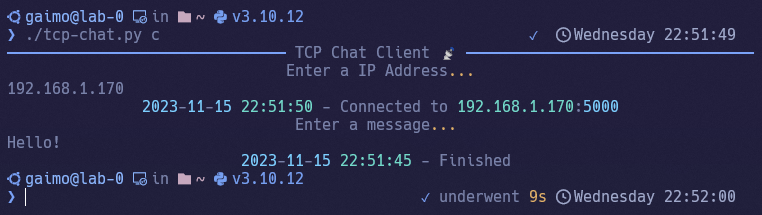
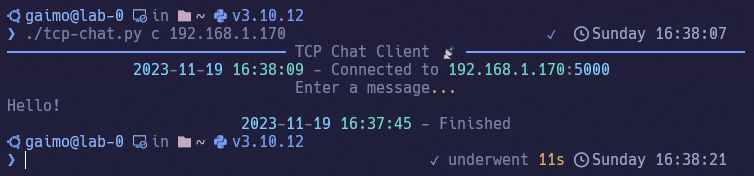
:sparkles: Switch Library: argparse -> typer

diff --git a/tcp-chat.py b/tcp-chat.py
@@ -1,17 +1,23 @@
 #!/usr/bin/env python3
-import argparse
 import datetime
 import socket
 import netifaces
 from rich.console import Console
+from typing import Optional
+import typer
 
-def server(interface):
-    server_ip = netifaces.ifaddresses(interface)[netifaces.AF_INET][0]['addr']
-    server_port = 5000
-    bufsize = 4096
-    format = 'utf-8'
-    date = datetime.datetime.now().strftime('%Y-%m-%d %H:%M:%S')
-    console = Console()
+console = Console()
+server_port = 5000
+bufsize = 4096
+format = 'utf-8'
+date = datetime.datetime.now().strftime('%Y-%m-%d %H:%M:%S')
+
+app = typer.Typer()
+
+@app.command("s")
+def run_server(nic: str = typer.Argument('ens18', help='Network interface (default: ens18)')):
+    """Run TCP Chat Server"""
+    server_ip = netifaces.ifaddresses(nic)[netifaces.AF_INET][0]['addr']
 
     try:
         server_socket = socket.socket(socket.AF_INET, socket.SOCK_STREAM)
@@ -29,7 +35,7 @@ def server(interface):
             client_msg = client_socket.recv(bufsize) # クライアントからのメッセージを受信
             console.print(client_msg.decode(format), justify='center') # クライアントからのメッセージを表示
 
-            server_msg =  f'{date} - Finished'
+            server_msg = f'{date} - Finished'
             client_socket.sendall(server_msg.encode(format)) # クライアントにメッセージを送信
         
             client_socket.close()
@@ -44,20 +50,13 @@ def server(interface):
 
     console.print('Server closed', justify='center')
 
-def client():
-    server_port = 5000
-    bufsize = 4096
-    format = 'utf-8'
-    date = datetime.datetime.now().strftime('%Y-%m-%d %H:%M:%S')
-    console = Console()
-
+@app.command("c")
+def run_client(server_ip: str = typer.Argument(..., help='Server IP address')):
+    """Run TCP Chat Client"""
     client_socket = None
 
     try:
         console.rule('TCP Chat Client 📡', style='blue')
-
-        console.print('Enter a IP Address...', justify='center')
-        server_ip = input()
 
         client_socket = socket.socket(socket.AF_INET, socket.SOCK_STREAM)
         client_socket.connect((server_ip, server_port))
@@ -81,19 +80,4 @@ def client():
             client_socket.close()
 
 if __name__ == '__main__':
-    parser = argparse.ArgumentParser(description='TCP Chat')
-    subparsers = parser.add_subparsers(dest='command', help='Choose command (server or client)')
-
-    server_parser = subparsers.add_parser('s', help='Run TCP Chat Server')
-    server_parser.add_argument('-i', '--interface', type=str, default='ens18', help='Network interface (default: ens18)')
-
-    client_parser = subparsers.add_parser('c', help='Run TCP Chat Client')
-
-    args = parser.parse_args()
-
-    if args.command == 's':
-        server(args.interface)
-    elif args.command == 'c':
-        client()
-    else:
-        print("Invalid command. Use 's' or 'c'.")
+    app()

diff --git a/README.md b/README.md
@@ -15,7 +15,13 @@
 
 ---
 
+# Required
 
+```sh
+pip install netifaces rich typer
+```
+
+<br>
 
 # Usage
 
@@ -26,14 +32,14 @@ Run TCP Chat Server
 
 <br>
 
-Select Network Interface (Default Network Interface is ens18)
+Specify the NIC (Default NIC is ens18)
 ```sh
-./tcp-chat.py s -i {NIC}
+./tcp-chat.py s {NIC}
 ```
 
 <br>
 
 Run TCP Chat Client
 ```sh
-./tcp-chat.py c
+./tcp-chat.py c {IP address}
 ```
